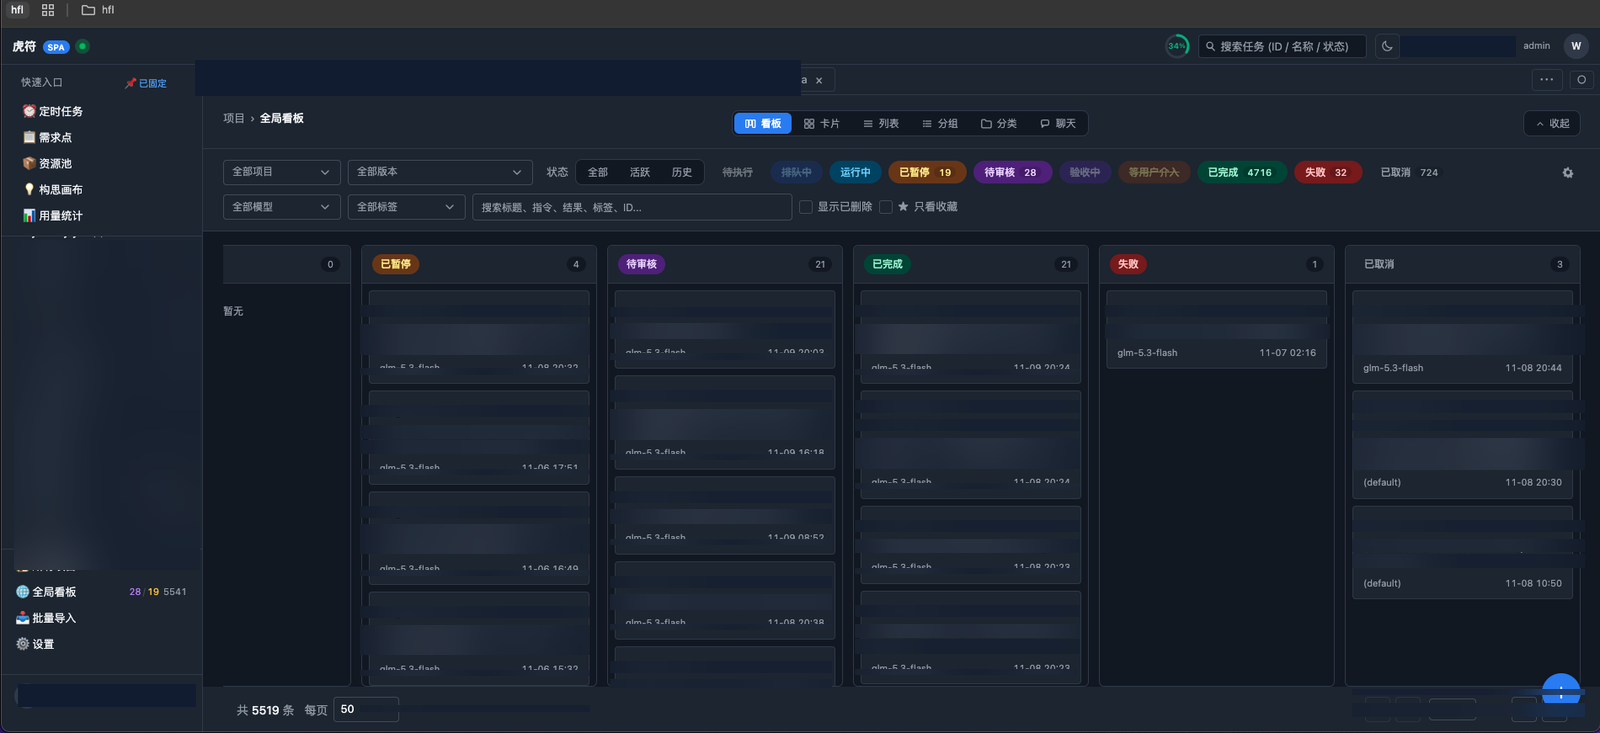
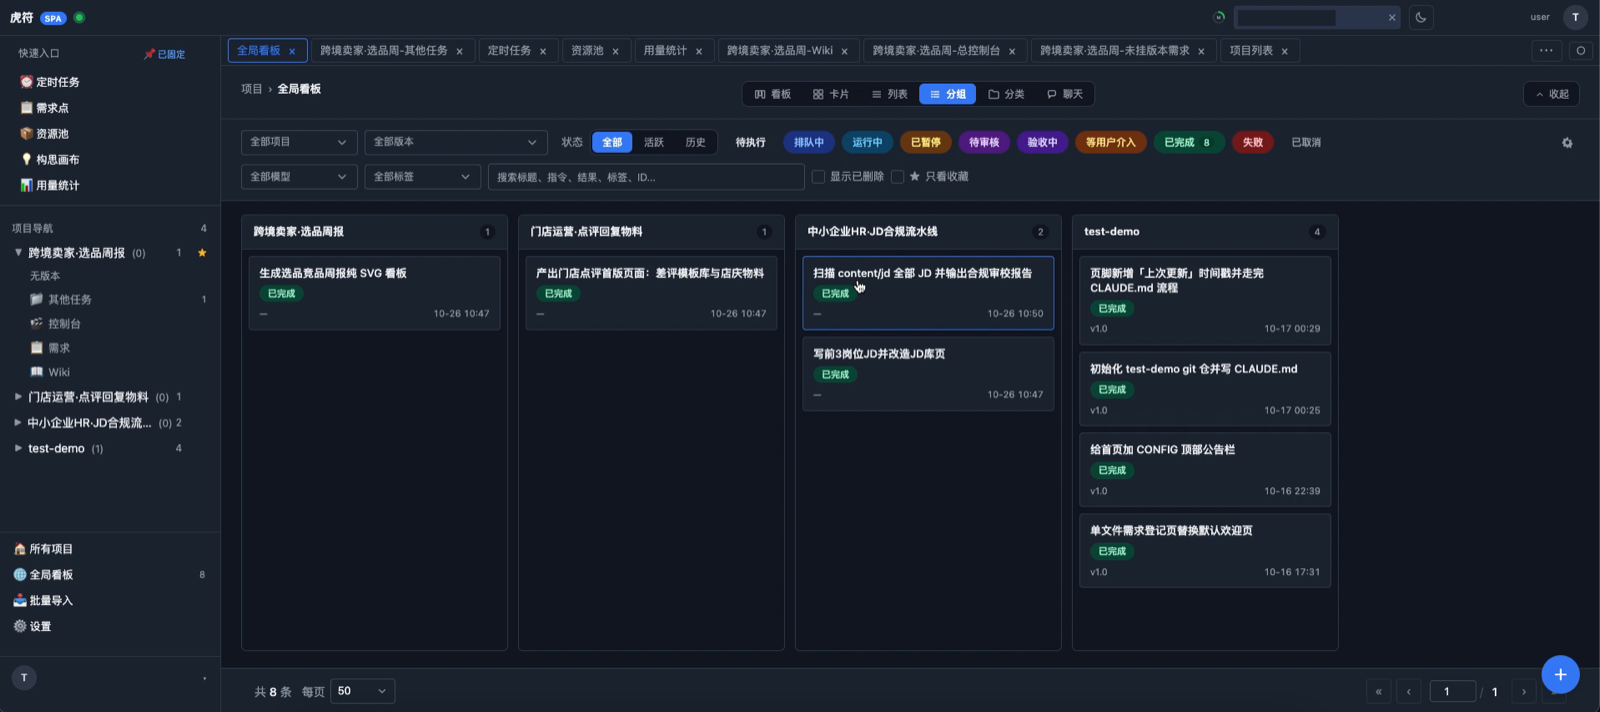
docs(readme): 头图换清晰 demo 截图 + 新增两段操作 GIF，消灭截图虚影
- 旧 01-kanban.png 是生产实例截图，任务标题被人工模糊出虚影，观感差
- 换成 demo 租户（虚构数据）录屏帧：分组视图、无模糊、像素级清晰；
  登录邮箱 / 搜索框内容用同帧取色遮罩抹掉（scripts/mask-screenshot.py）
- 新增 docs/gifs/ 两段 GIF：①新建定时任务 + 用量统计 ②任务详情
  preflight 自检 + 实时输出；README / README.zh-CN 各加两节引用
- 生成管线沉淀为 scripts/make-demo-gifs.sh（ffmpeg 降帧 → 逐帧遮罩
  → 调色板两遍法），可复跑

撤销命令: git reset f990045 -- README.md README.zh-CN.md docs/screenshots/01-kanban.png docs/gifs scripts/make-demo-gifs.sh scripts/mask-screenshot.py && git checkout docs/screenshots/01-kanban.png

diff --git a/scripts/mask-screenshot.py b/scripts/mask-screenshot.py
@@ -1,0 +1,98 @@
+#!/usr/bin/env python3
+"""
+mask-screenshot.py — 抹掉截图/录屏里的登录邮箱等身份信息。
+
+功能: 从 ffmpeg 原始帧流里，逐帧把指定矩形区域填成「同帧参考区的中位色」。
+      为什么要同帧取色而不是固定色: 平台 UI 有弹窗时会给背景加半透明遮罩，
+      同一位置在不同时刻底色会变（实测 #0e141c ↔ #1a222e）。固定色块在变暗的
+      帧上会露出矩形边界，反而更扎眼。同帧取色填块 = 像素级无缝。
+
+用法:
+  ffmpeg -i in.mov -f rawvideo -pix_fmt rgb24 - | \
+    python3 scripts/mask-screenshot.py --width 1918 --height 854 \
+      --mask "1725,13,1822,29" --mask "48,805,145,821" \
+      --ref "1710,3,1725,12" --ref "150,802,171,822" \
+    | ffmpeg -f rawvideo -pix_fmt rgb24 -s 1918x854 -i - ... out.gif
+
+参数:
+  --mask X0,Y0,X1,Y1   要覆盖的矩形 (闭区间)。可重复多次。
+  --ref  X0,Y0,X1,Y1   取色参考矩形 (该区域必须是无文字的纯背景)。
+                       --mask 与 --ref 按出现顺序一一配对。
+  --width/--height     帧尺寸。
+
+关注点: 纯 Python 逐像素处理，1918x854 单帧约 4.9MB；长录屏建议分段跑。
+        参考区若被 UI 元素（按钮/图标）压住，中位色会被带偏 —— 挑空白处取。
+"""
+
+import sys
+import argparse
+
+
+def parse_rect(s):
+    parts = [int(v) for v in s.split(",")]
+    if len(parts) != 4:
+        raise argparse.ArgumentTypeError(f"矩形格式应为 X0,Y0,X1,Y1，收到 {s!r}")
+    x0, y0, x1, y1 = parts
+    if x1 < x0 or y1 < y0:
+        raise argparse.ArgumentTypeError(f"矩形坐标顺序错: {s!r}")
+    return x0, y0, x1, y1
+
+
+def median_color(buf, width, rect):
+    """取矩形内每通道的中位数 —— 对少量异常像素（抗锯齿边缘）鲁棒。"""
+    x0, y0, x1, y1 = rect
+    chans = ([], [], [])
+    for y in range(y0, y1 + 1):
+        base = y * width * 3
+        for x in range(x0, x1 + 1):
+            i = base + x * 3
+            chans[0].append(buf[i])
+            chans[1].append(buf[i + 1])
+            chans[2].append(buf[i + 2])
+    return tuple(sorted(c)[len(c) // 2] for c in chans)
+
+
+def apply_mask(buf, width, mask_rect, color):
+    x0, y0, x1, y1 = mask_rect
+    r, g, b = color
+    for y in range(y0, y1 + 1):
+        base = y * width * 3
+        for x in range(x0, x1 + 1):
+            i = base + x * 3
+            buf[i] = r
+            buf[i + 1] = g
+            buf[i + 2] = b
+
+
+def main():
+    ap = argparse.ArgumentParser(description="逐帧同色遮罩")
+    ap.add_argument("--width", type=int, required=True)
+    ap.add_argument("--height", type=int, required=True)
+    ap.add_argument("--mask", action="append", default=[], help="X0,Y0,X1,Y1（可重复）")
+    ap.add_argument("--ref", action="append", default=[], help="X0,Y0,X1,Y1（可重复，与 mask 一一对应）")
+    args = ap.parse_args()
+
+    masks = [parse_rect(m) for m in args.mask]
+    refs = [parse_rect(r) for r in args.ref]
+    if len(masks) != len(refs):
+        sys.exit(f"--mask 给 {len(masks)} 个，--ref 给 {len(refs)} 个，数量必须一致")
+
+    frame_size = args.width * args.height * 3
+    stdin = sys.stdin.buffer
+    stdout = sys.stdout.buffer
+    frames = 0
+    while True:
+        buf = bytearray(stdin.read(frame_size))
+        if len(buf) < frame_size:
+            break
+        for mrect, rrect in zip(masks, refs):
+            color = median_color(buf, args.width, rrect)
+            apply_mask(buf, args.width, mrect, color)
+        stdout.write(buf)
+        frames += 1
+    stdout.flush()
+    sys.stderr.write(f"mask-screenshot: 处理 {frames} 帧\n")
+
+
+if __name__ == "__main__":
+    main()

diff --git a/README.md b/README.md
@@ -23,9 +23,15 @@ No inference cost from the platform. Your keys, your machine, your data.
 
 ---
 
-![Global kanban board — every project, every task state, one screen](docs/screenshots/01-kanban.png)
+![Global board, grouped view — every project's tasks on one screen](docs/screenshots/01-kanban.png)
 
-> **Global board:** queued / running / reviewing / paused / done / failed — drag, filter, search across all projects. Every task in the instance, one screen.
+> **Global board:** every project, every task state, one screen — board / card / list / grouped / chat views, drag, filter, search across all projects.
+
+### Schedule it, then watch the spend
+
+![Scheduled task creation and usage stats](docs/gifs/01-schedule-and-usage.gif)
+
+> Schedules run on cron or a one-shot trigger and land in the same task queue as a manual dispatch. The usage view breaks down spend per task, per model, and per time bucket — so you can see which agent run actually cost money.
 
 ---
 
@@ -60,13 +66,19 @@ You already use Claude Code. But running agents from a terminal doesn't scale:
 
 > Every tool call is visible: `mcp_media__image_gen` → generated file → Bash verification → auto-generated summary (干掉 / 有用 / 5-step recap). Fork, resume, or send a follow-up message and the agent keeps working.
 
-### 3. Parent & child tasks wake each other automatically
+### 3. See the agent's own self-check before it starts
+
+![Task detail — preflight self-check, live stream, and the summary panel](docs/gifs/02-task-running.gif)
+
+> Before an agent touches the repo, the platform runs a preflight check (working directory, git state, last commit) and shows you the verdict. The transcript streams live next to it, and the right-hand panel keeps a rolling summary — fork, refine, or resume without losing the thread.
+
+### 4. Parent & child tasks wake each other automatically
 
 ![Subtask notify — child task completion automatically wakes the parent, with a relationship graph](docs/screenshots/04-subtask-notify.png)
 
 > A child task finishes → `[subtask-notify]` wakes the parent with the result → parent decides: approve, reject, or dispatch the next child. The relationship graph (0 upstream · 2 downstream) shows the whole chain.
 
-### 4. Swap models — just fill in one key
+### 5. Swap models — just fill in one key
 
 ![LLM provider catalog — 8 built-in domestic providers, auto-filled Base URL, fallback chain and per-task pricing](docs/screenshots/05-model-providers.png)
 

diff --git a/README.zh-CN.md b/README.zh-CN.md
@@ -23,9 +23,15 @@
 
 ---
 
-![全局看板 — 所有项目、所有任务状态，一屏看全](docs/screenshots/01-kanban.png)
+![全局看板（分组视图）— 所有项目、所有任务状态，一屏看全](docs/screenshots/01-kanban.png)
 
-> **全局看板：** 排队中 / 运行中 / 待审核 / 已暂停 / 已完成 / 失败 — 拖拽、筛选、搜索，跨项目一屏看全。
+> **全局看板：** 看板 / 卡片 / 列表 / 分组 / 聊天多视图切换 — 拖拽、筛选、搜索，跨项目一屏看全。
+
+### 定时派活，花销也看得见
+
+![新建定时任务 + 用量统计](docs/gifs/01-schedule-and-usage.gif)
+
+> 定时任务支持 cron 周期和一次性触发，派出去后和手动派活进同一个队列。用量视图按任务 / 按模型 / 按时间区间拆开算账 —— 哪次 Agent 运行花了多少钱，一眼看清。
 
 ---
 
@@ -60,13 +66,19 @@
 
 > 每次工具调用都可见：`mcp_media__image_gen` → 生成文件 → Bash 验证 → 自动总结（干掉 / 有用 / 5 步复盘）。Fork、续跑，或直接留言改需求，Agent 继续干。
 
-### 3. 父子任务自动互相唤醒
+### 3. Agent 开工前先自检，结果摊开给你看
+
+![任务详情 — preflight 自检、实时输出与信息面板](docs/gifs/02-task-running.gif)
+
+> Agent 动仓库之前，平台先跑一遍 preflight 自检（工作目录、git 状态、上次 commit），把结论先摆出来。对话流实时往下滚，右侧信息面板持续更新总结 —— 要 fork、要打回、要续跑，线索都不丢。
+
+### 4. 父子任务自动互相唤醒
 
 ![子任务通知 — 子任务完成自动唤醒父任务，并附调用关系图](docs/screenshots/04-subtask-notify.png)
 
 > 子任务完成 → `[subtask-notify]` 唤醒父任务并带上结果 → 父任务决定：通过、打回，或派下一个子任务。关系图（0 上游 · 2 下游）把整条链画得清清楚楚。
 
-### 4. 换模型，只填一个 Key
+### 5. 换模型，只填一个 Key
 
 ![LLM 厂商目录 — 8 家国内厂商内置、Base URL 自动填充、fallback 链与按任务计价](docs/screenshots/05-model-providers.png)
 
